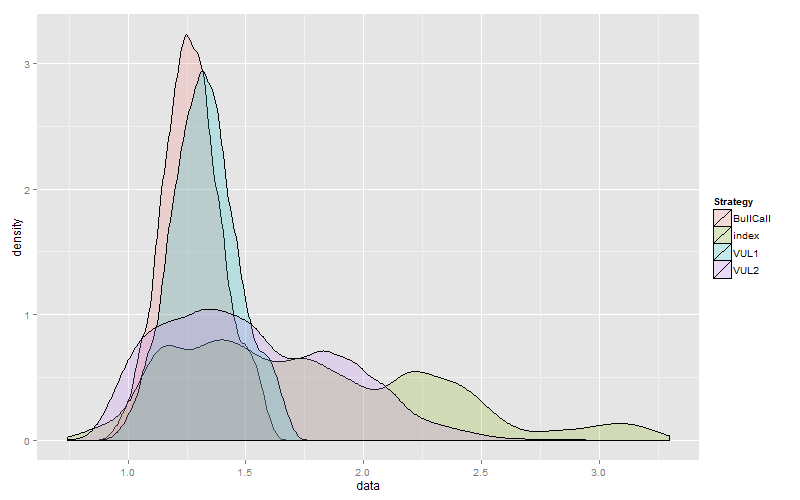
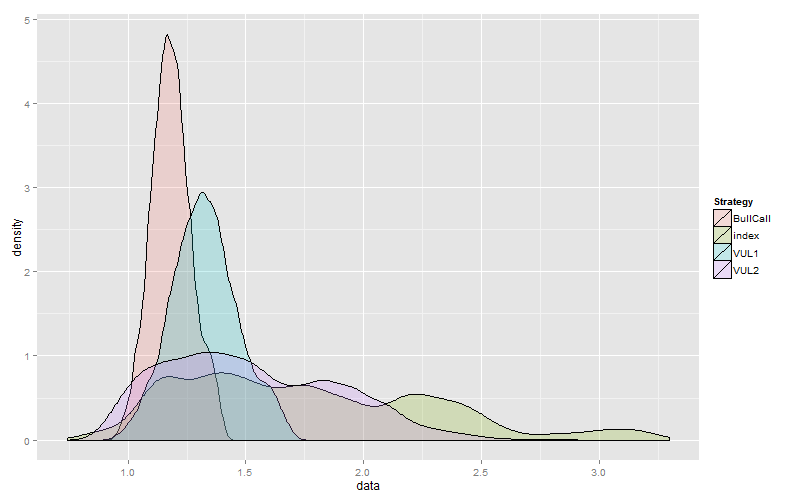
Update 2016-09-29-Stock-Investment-and-Life-Insurance.md

Changed region(s): [[0.0312, 0.09, 0.875, 0.9], [0.0312, 0.12, 0.0625, 0.15], [0.0312, 0.03, 0.0625, 0.06]]

diff --git a/_posts/2016-09-29-Stock-Investment-and-Life-Insurance.md b/_posts/2016-09-29-Stock-Investment-and-Life-Insurance.md
@@ -35,22 +35,22 @@ Final asset value at the end of investment horizon divided by initial capital
 
 **Summary Statistics**
 
-| Percentiles | ETF | VUL1 | VUL2 | ETF+BullSpread |
+| Percentiles |  ETF | VUL1 | VUL2 | ETF+BullSpread |
 |------------:|-----:|-----:|-----:|---------------:|
-| 0% | 0.74 | 0.91 | 0.85 | 0.89 |
-| 1% | 0.89 | 1.01 | 0.92 | 0.99 |
-| 5% | 1.07 | 1.10 | 1.00 | 1.07 |
-| 10% | 1.14 | 1.15 | 1.07 | 1.12 |
-| 25% | 1.34 | 1.23 | 1.23 | 1.19 |
-| 50% | 1.69 | 1.32 | 1.47 | 1.27 |
-| 75% | 2.17 | 1.42 | 1.81 | 1.36 |
-| 90% | 2.46 | 1.52 | 2.04 | 1.45 |
-| 95% | 2.82 | 1.58 | 2.16 | 1.51 |
-| 99% | 3.16 | 1.66 | 2.42 | 1.57 |
-| 100% | 3.30 | 1.73 | 2.93 | 1.64 |
-| Mean | 1.77 | 1.33 | 1.52 | 1.27 |
-| Vol | 1.77 | 1.33 | 1.52 | 1.27 |
-| Sharpe | 0.34 | 0.13 | 0.24 | 0.09 |
+|          0% | 0.74 | 0.91 | 0.85 |           0.93 |
+|          1% | 0.89 | 1.01 | 0.92 |           0.99 |
+|          5% | 1.07 | 1.10 | 1.00 |           1.04 |
+|         10% | 1.14 | 1.15 | 1.07 |           1.08 |
+|         25% | 1.34 | 1.23 | 1.23 |           1.13 |
+|         50% | 1.69 | 1.32 | 1.47 |           1.18 |
+|         75% | 2.17 | 1.42 | 1.81 |           1.24 |
+|         90% | 2.46 | 1.52 | 2.04 |           1.30 |
+|         95% | 2.82 | 1.58 | 2.16 |           1.34 |
+|         99% | 3.16 | 1.66 | 2.42 |           1.38 |
+|        100% | 3.30 | 1.73 | 2.93 |           1.43 |
+|        Mean | 1.77 | 1.33 | 1.52 |           1.18 |
+|         Vol | 1.77 | 1.33 | 1.52 |           1.18 |
+|      Sharpe | 0.34 | 0.13 | 0.24 |           0.02 |
 
 **Distributions**
 {% include image.html url="images/Histogram10Year.png" caption="" width="800" height="500" align="right" %}
@@ -63,22 +63,22 @@ Final asset value at the end of investment horizon divided by initial capital
 
 **Summary Statistics**
 
-| Percentiles | ETF | VUL1 | VUL2 | ETF+BullSpread |
+| Percentiles |   ETF | VUL1 | VUL2 | ETF+BullSpread |
 |------------:|------:|-----:|-----:|---------------:|
-| 0% | 1.60 | 1.42 | 1.15 | 1.03 |
-| 1% | 1.71 | 1.61 | 1.40 | 1.15 |
-| 5% | 1.85 | 1.76 | 1.65 | 1.26 |
-| 10% | 1.96 | 1.87 | 1.88 | 1.33 |
-| 25% | 2.30 | 2.12 | 2.49 | 1.50 |
-| 50% | 3.22 | 2.40 | 3.13 | 1.69 |
-| 75% | 4.74 | 2.73 | 3.85 | 1.91 |
-| 90% | 7.13 | 2.97 | 4.84 | 2.07 |
-| 95% | 9.05 | 3.11 | 5.65 | 2.17 |
-| 99% | 10.38 | 3.39 | 6.65 | 2.36 |
-| 100% | 11.20 | 3.69 | 7.84 | 2.56 |
-| Mean | 3.91 | 2.42 | 3.27 | 1.70 |
-| Vol | 3.91 | 2.42 | 3.27 | 1.70 |
-| Sharpe | 0.66 | 0.44 | 0.59 | 0.21 |
+|          0% |  1.60 | 1.42 | 1.15 |           1.02 |
+|          1% |  1.71 | 1.61 | 1.40 |           1.10 |
+|          5% |  1.85 | 1.76 | 1.65 |           1.17 |
+|         10% |  1.96 | 1.87 | 1.88 |           1.22 |
+|         25% |  2.30 | 2.12 | 2.49 |           1.34 |
+|         50% |  3.22 | 2.40 | 3.13 |           1.46 |
+|         75% |  4.74 | 2.73 | 3.85 |           1.61 |
+|         90% |  7.13 | 2.97 | 4.84 |           1.72 |
+|         95% |  9.05 | 3.11 | 5.65 |           1.78 |
+|         99% | 10.38 | 3.39 | 6.65 |           1.91 |
+|        100% | 11.20 | 3.69 | 7.84 |           2.04 |
+|        Mean |  3.91 | 2.42 | 3.27 |           1.47 |
+|         Vol |  3.91 | 2.42 | 3.27 |           1.47 |
+|      Sharpe |  0.66 | 0.44 | 0.59 |           0.08 |
 
 **Distributions**
 {% include image.html url="images/Histogram20Year.png" caption="" width="800" height="500" align="right" %}
@@ -92,22 +92,22 @@ Final asset value at the end of investment horizon divided by initial capital
 
 **Summary Statistics**
 
-| Percentiles | ETF | VUL1 | VUL2 | ETF+BullSpread |
+| Percentiles |   ETF | VUL1 |  VUL2 | ETF+BullSpread |
 |------------:|------:|-----:|------:|---------------:|
-| 0% | 3.92 | 2.39 | 2.96 | 1.27 |
-| 1% | 4.35 | 2.74 | 3.36 | 1.44 |
-| 5% | 4.65 | 3.09 | 3.70 | 1.62 |
-| 10% | 5.10 | 3.34 | 3.97 | 1.74 |
-| 25% | 5.74 | 3.79 | 5.03 | 1.98 |
-| 50% | 8.47 | 4.50 | 7.06 | 2.33 |
-| 75% | 11.27 | 5.08 | 8.77 | 2.59 |
-| 90% | 13.52 | 5.43 | 9.90 | 2.76 |
-| 95% | 14.46 | 5.64 | 10.60 | 2.86 |
-| 99% | 15.40 | 6.03 | 11.85 | 3.05 |
-| 100% | 16.32 | 6.77 | 14.22 | 3.41 |
-| Mean | 8.65 | 4.43 | 7.00 | 2.28 |
-| Vol | 8.65 | 4.43 | 7.00 | 2.28 |
-| Sharpe | 0.82 | 0.65 | 0.78 | 0.32 |
+|          0% |  3.92 | 2.39 |  2.96 |           1.18 |
+|          1% |  4.35 | 2.74 |  3.36 |           1.29 |
+|          5% |  4.65 | 3.09 |  3.70 |           1.41 |
+|         10% |  5.10 | 3.34 |  3.97 |           1.50 |
+|         25% |  5.74 | 3.79 |  5.03 |           1.65 |
+|         50% |  8.47 | 4.50 |  7.06 |           1.89 |
+|         75% | 11.27 | 5.08 |  8.77 |           2.07 |
+|         90% | 13.52 | 5.43 |  9.90 |           2.18 |
+|         95% | 14.46 | 5.64 | 10.60 |           2.25 |
+|         99% | 15.40 | 6.03 | 11.85 |           2.37 |
+|        100% | 16.32 | 6.77 | 14.22 |           2.62 |
+|        Mean |  8.65 | 4.43 |  7.00 |           1.86 |
+|         Vol |  8.65 | 4.43 |  7.00 |           1.86 |
+|      Sharpe |  0.82 | 0.65 |  0.78 |           0.16 |
 
 **Distributions**
 {% include image.html url="images/Histogram30Year.png" caption="" width="800" height="500" align="right" %}
